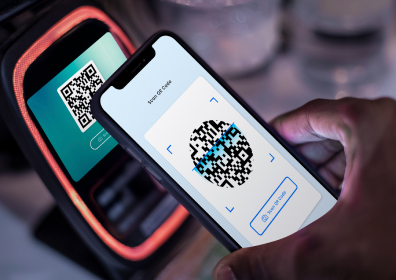
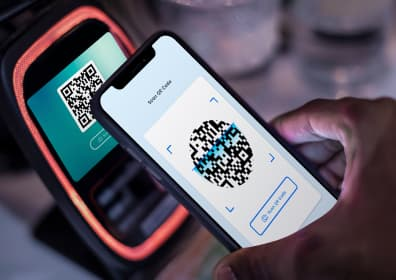
Added 192dpi bg. Update images

diff --git a/css/style.css b/css/style.css
@@ -207,6 +207,12 @@ a {
   margin: 0 auto;
 }
 
+@media (min-resolution: 192dpi) {
+  .order-section {
+    background-image: linear-gradient(to bottom, rgba(46, 47, 66, 0.7), rgba(46, 47, 66, 0.7)),
+      url(../images/people_office_mobile@x2.jpg);
+  }
+}
 .order-section .main-title {
   width: 320px;
   margin: 0 auto;
@@ -228,7 +234,6 @@ a {
   height: 56px;
   border-radius: 4px;
   box-shadow: 0px 4px 4px rgba(0, 0, 0, 0.15);
-  transition: background-color 250ms cubic-bezier(0.4, 0, 0.2, 1);
 }
 
 .btn:hover,
@@ -457,7 +462,6 @@ a {
   width: 40px;
   height: 40px;
   position: relative;
-  transition: background-color 250ms cubic-bezier(0.4, 0, 0.2, 1);
 }
 
 .icon-footer {
@@ -960,7 +964,6 @@ a {
     color: var(--color-heder-link);
     padding: 24px 0;
     position: relative;
-    transition: color 250ms cubic-bezier(0.4, 0, 0.2, 1);
   }
 
   .is-active {
@@ -1010,6 +1013,13 @@ a {
       url(../images/people_office_tablet.jpg);
     max-width: 768px;
     margin: 0 auto;
+  }
+
+  @media (min-resolution: 192dpi) {
+    .order-section {
+      background-image: linear-gradient(to bottom, rgba(46, 47, 66, 0.7), rgba(46, 47, 66, 0.7)),
+        url(../images/people_office_tablet@x2.jpg);
+    }
   }
 
   .order-section .main-title {
@@ -1243,6 +1253,13 @@ a {
     background-size: cover;
     max-width: 1440px;
     margin: 0 auto;
+  }
+
+  @media (min-resolution: 192dpi) {
+    .order-section {
+      background-image: linear-gradient(to bottom, rgba(46, 47, 66, 0.7), rgba(46, 47, 66, 0.7)),
+        url(../images/people_office@x2.jpg);
+    }
   }
 
   /* main */
